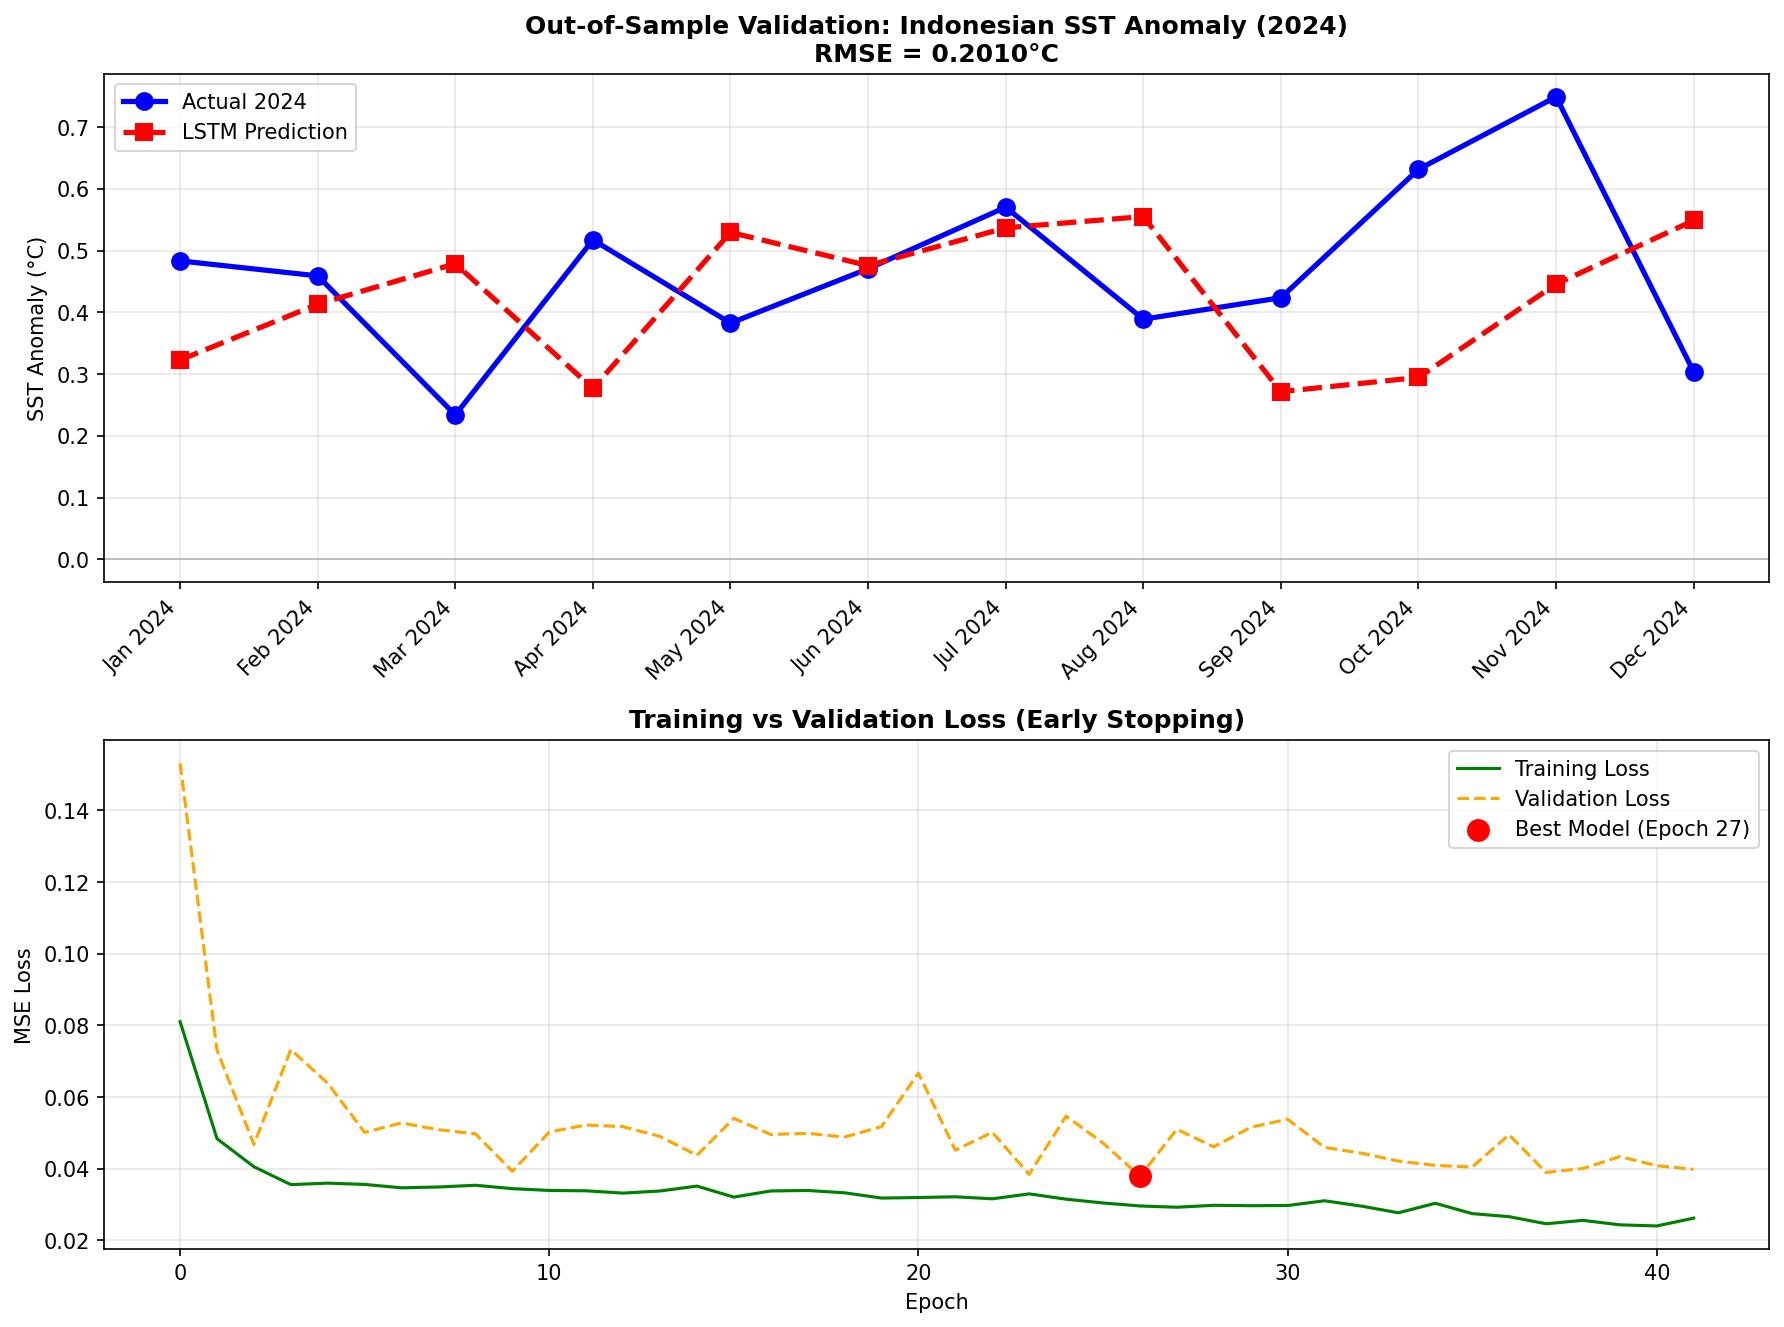
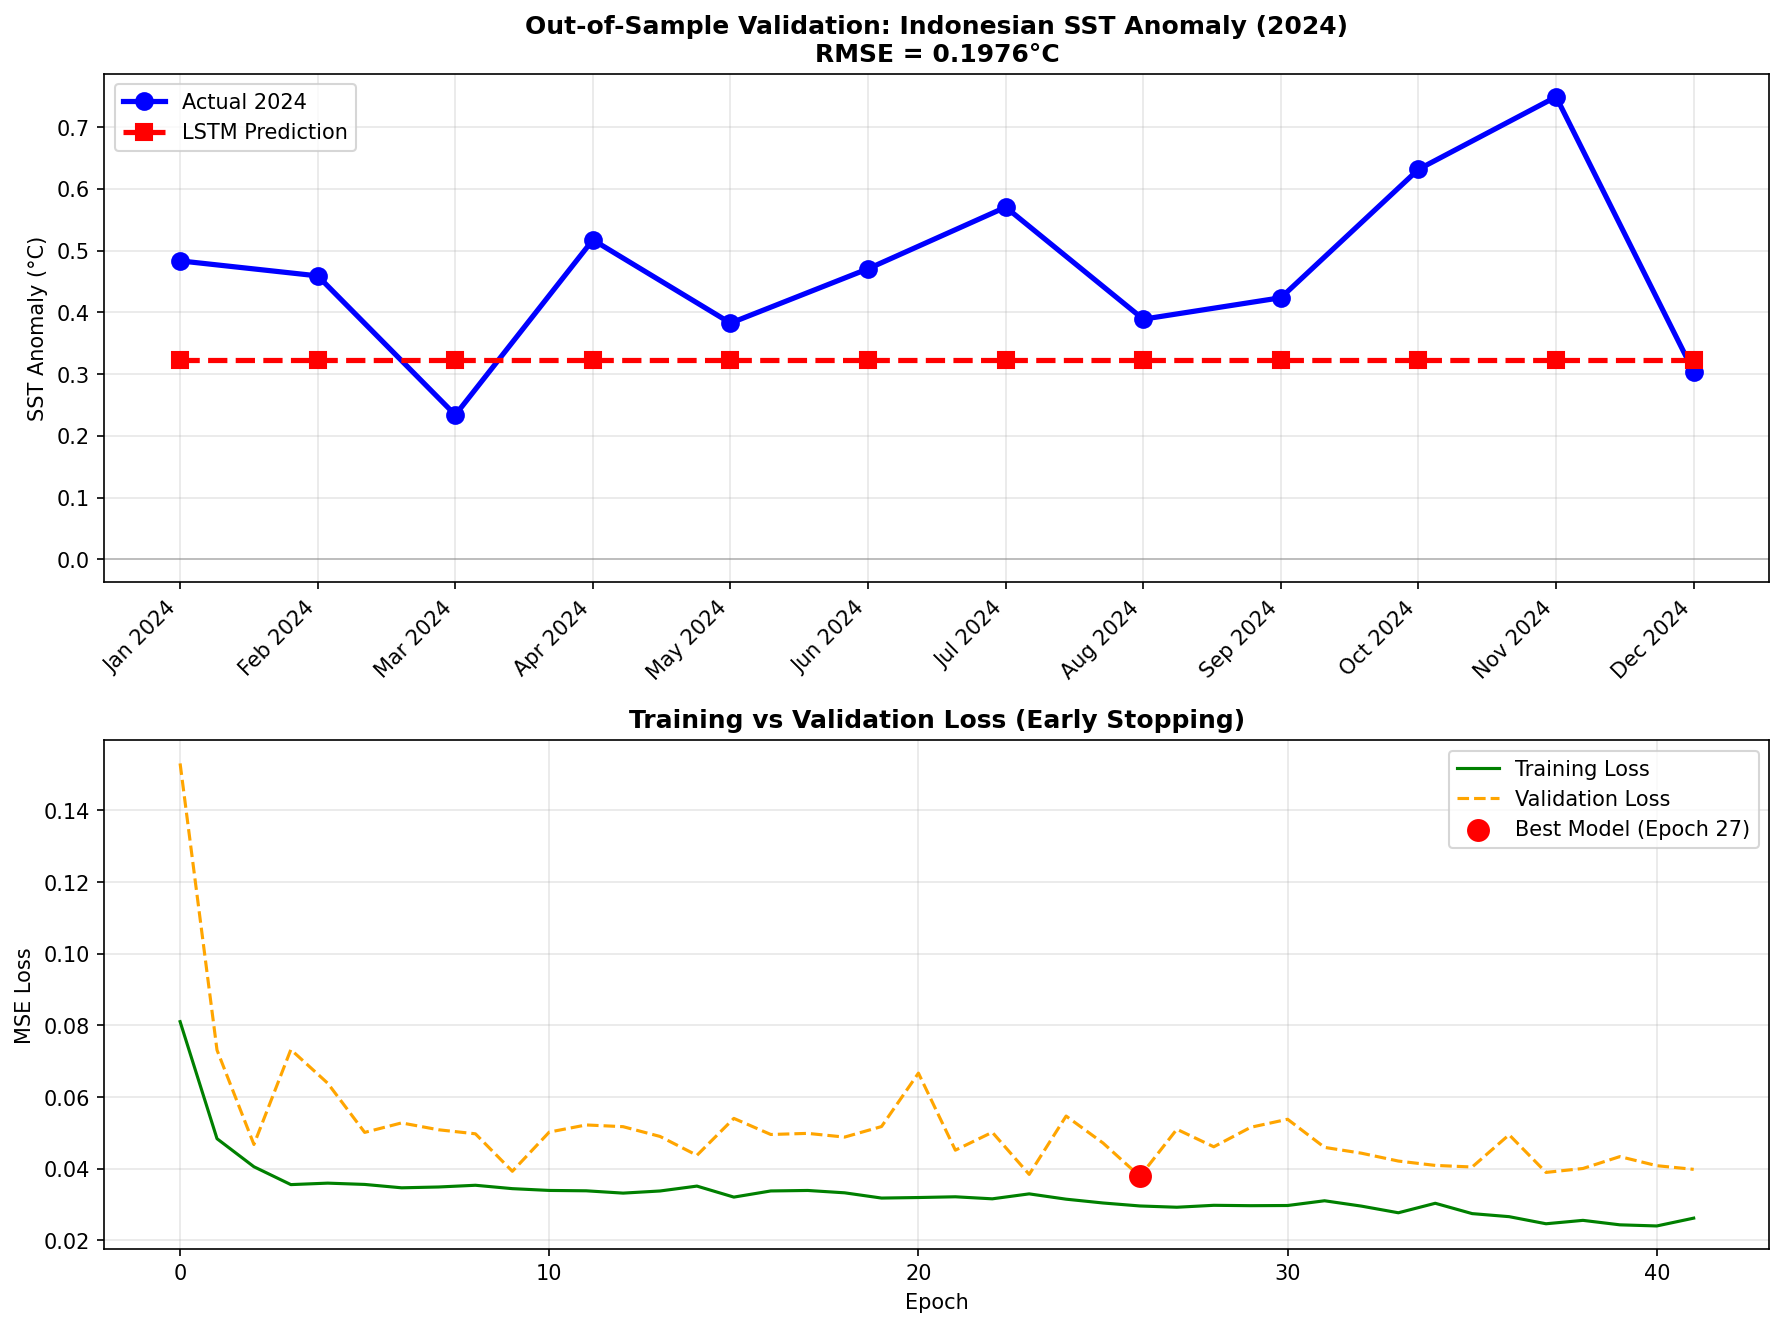
fix: Implement pure forecasting - no 2024 data seen during inference

diff --git a/validation_2024.py b/validation_2024.py
@@ -353,18 +353,24 @@ def main():
     print(f"   - Training Set   : {X_train.shape[0]} samples (Learning)")
     print(f"   - Validation Set : {X_val.shape[0]} samples (Early Stopping Check)")
     
-    # Prepare Test Data (2024)
+    # Prepare Test Data (2024) - PURE FORECASTING
+    # For ALL predictions in 2024, we ONLY use data up to Dec 2023
+    # This simulates real forecasting where we don't have future data
     X_test, y_test = [], []
+    
+    # Use the same input (last 12 months of training) for ALL 2024 predictions
+    # This is "direct multi-step forecasting" - no recursive/autoregressive updates
+    last_12_months_training = train_scaled[-LOOKBACK:]  # Dec 2022 - Nov 2023
+    
     for i in range(len(test_scaled)):
-        if i < LOOKBACK:
-            lookback_data = np.vstack([train_scaled[-(LOOKBACK-i):], test_scaled[:i]]) if i > 0 else train_scaled[-LOOKBACK:]
-        else:
-            lookback_data = test_scaled[i-LOOKBACK:i]
-        X_test.append(lookback_data)
-        y_test.append(test_scaled[i, 0])
+        X_test.append(last_12_months_training)  # Same input for all months
+        y_test.append(test_scaled[i, 0])        # Actual 2024 values as target
     
     X_test = np.array(X_test)
     y_test = np.array(y_test).reshape(-1, 1)
+    
+    print(f"  [PURE FORECASTING] Using only Dec 2022 - Nov 2023 data for prediction")
+    print(f"  No 2024 data is seen by the model during inference")
     
     # Tensor Conversion
     X_train_t = torch.FloatTensor(X_train).to(DEVICE)
